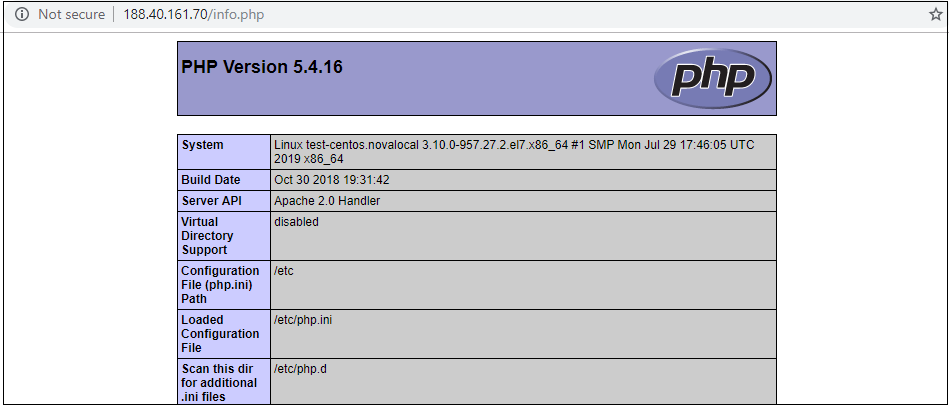
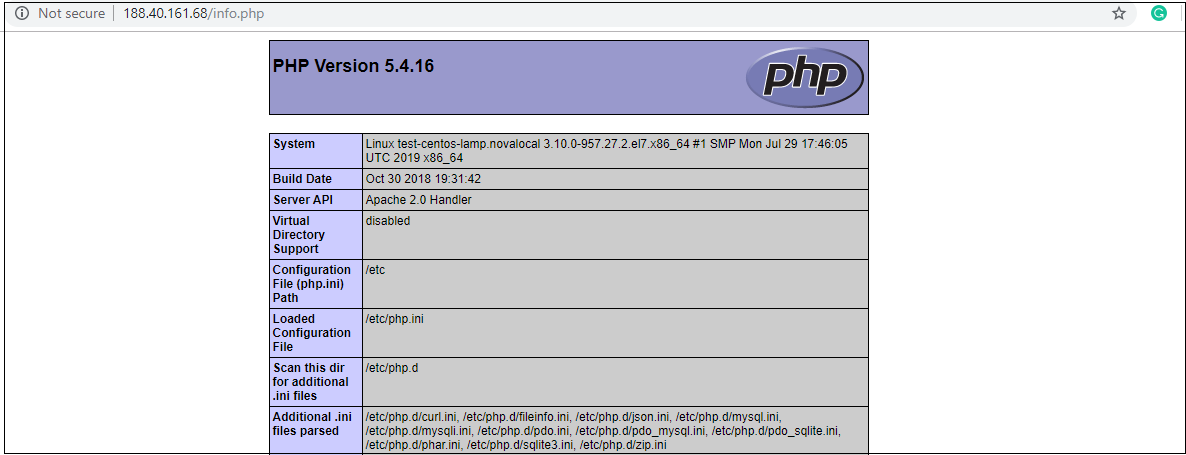
Install-LAMP+centos

Changed region(s): [[0.0, 0.0, 1.0, 1.0]]

diff --git a/_docs/tutorials/Install-LAMP+centos.md b/_docs/tutorials/Install-LAMP+centos.md
@@ -144,19 +144,22 @@ We need to restart Apache web server one more time for it to work with PHP by ty
 sudo systemctl restart httpd.service
 ```
 
+Also, we need to install other php modules:
+
+```
+sudo yum install php*
+```
+
+
+
 ### Test PHP
 
-Apache installs a default website on the directory ‘/var/www/html/’. So to test PHP on our CentOs 7 Server, we need to create a file there using a nano editor.
+Apache installs a default website on the directory ‘/var/www/html/’. So to test PHP on our CentOs 7 Server, we need to create a file there.
 
-First, let’s install nano by running the command below:
-
-```
-sudo yum install nano
-```
-Next, create our ‘info.php’ file by typing the command below:
+Create our ‘info.php’ file by typing the command below:
 
 ```
-sudo nano /var/www/html/info.php
+sudo vi /var/www/html/info.php
 ```
 
 A blank text file should be displayed, just copy paste the content below on the page:
@@ -166,7 +169,7 @@ A blank text file should be displayed, just copy paste the content below on the 
 phpinfo(); 
 ?>
 ```
-Then press CTRL + X, Y and Enter to save the changes
+Then press Esc, :wq, and Enter to save the changes
 
 You need to visit the following URL on your browser to check whether PHP is working: http://ip_address/info.php
 
@@ -177,6 +180,78 @@ If the installation was completed without a problem, you should see the below pa
 ![](../../assets/img/LAMP/centos3.png) 
 
 Your LAMP stack is now complete and you can run any type of dynamic website/software application provided it works on the Apache, MariaDB and PHP environment. You might also need to install or enable additional PHP extensions and Apache modules depending on your web hosting needs.
+
+### Download and Setup WordPress
+1) Login to your mysql server using the command:
+
+```
+mysql -u root -p
+```
+
+2) Then create a database by following the commands. For this tutorial we will create a database named "orders_newdatabasename" with a user "orders_dbuser" and password of "mynewpassword".
+
+You will have to write down this information since we will use it later on.
+
+```
+CREATE DATABASE wordpress_sample;
+
+CREATE USER wp_user@localhost IDENTIFIED BY 'wp_password';
+
+GRANT ALL PRIVILEGES ON wordpress_sample.* TO wp_user@localhost;
+
+FLUSH PRIVILEGES;
+
+exit
+```
+
+3) Let us install php-gd first, this module is used to resize images so we can create a thumbnail. Let us try to fetch the package from CentOS repository:
+
+```
+sudo yum install php-gd
+```
+4) After that we will need to restart our httpd server so it can recognize the newly installed module:
+
+```
+sudo service httpd restart
+```
+
+6) Let us install Wget programm:
+
+```
+sudo yum install wget
+```
+
+5) Go to your /html folder before we download the latest wordpress files. The /html folder is the public facing folder of your webserver.
+
+```
+cd /var/www/html/
+```
+
+6) Download the last version of wordpress files:
+
+```
+wget https://wordpress.org/wordpress-5.1.2.zip
+```
+
+7) Unzip the wordpress files in the /var/www/html directory:
+
+```
+unzip wordpress-5.1.2.zip
+```
+8) We need to restart httpd web server one more time for it to work by typing:
+
+```
+systemctl restart httpd
+```
+
+9) And then we set the appropriate permissions for the html directory and files to increase wordpress security and to avoid problems with permissions later on as we configure our wordpress.
+
+```
+sudo chown -R apache:apache /var/www/html/*
+```
+10) Now you can complete the WordPress setup and publish on the platform. Open a browser and type in your **IP address/wordpress**. Substitute the public IP address of your VM. It should look similar to this image.
+
+![](../../assets/img/LAMP/centos4.png)
 
 
 ## Deploy the LAMP stack on an Ubuntu VM
@@ -265,7 +340,7 @@ The output should display the details of the LAMP stack as seen in the image bel
 ![](../../assets/img/LAMP/LAMP4.png) 
 
 
-## Install WordPress
+### Install WordPress
 ---
 
 If you want to try your stack, install a sample app. As an example, the following steps install the open source [WordPress](https://wordpress.org/) platform to create websites and blogs. Other workloads to try include [Drupal](https://www.drupal.org/) and [Moodle](https://moodle.org/).
@@ -342,7 +417,7 @@ sudo mv /etc/wordpress/config-localhost.php /etc/wordpress/config-default.php
 ![](../../assets/img/LAMP/LAMP5.png) 
 
 **Let's re-cap what we've done:**
-- Create an Ubuntu VM
+- Create an Ubuntu VM and Centos VM
 - Install Apache, MySQL, and PHP
 - Verify installation and configuration
-- Install WordPress on the LAMP server
+- Install WordPress on the LAMP server 
